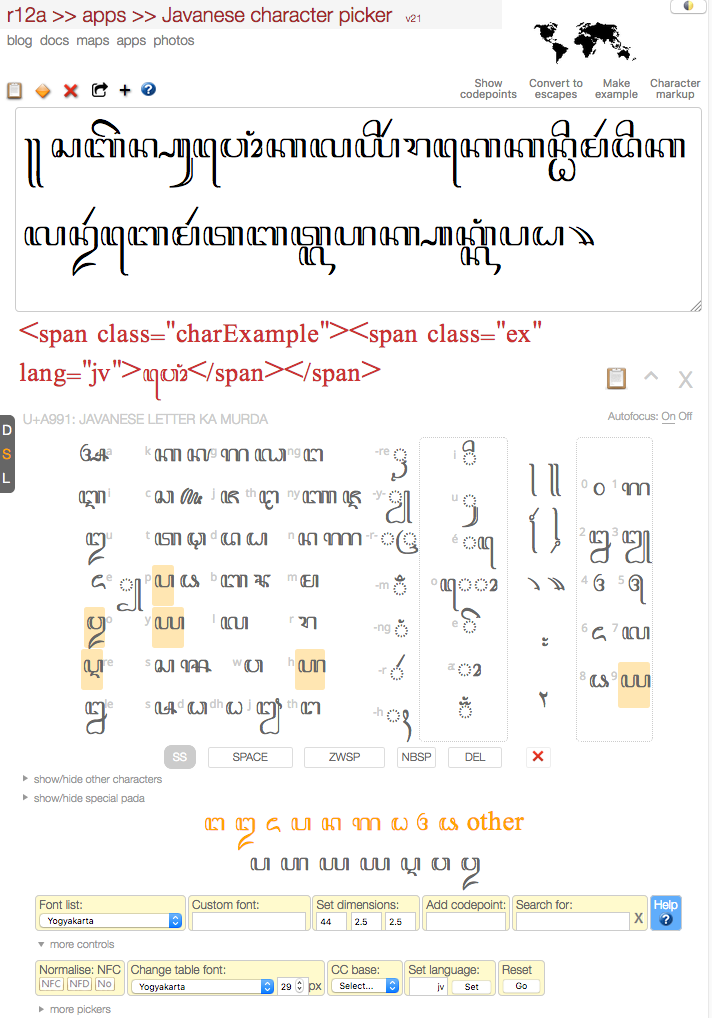
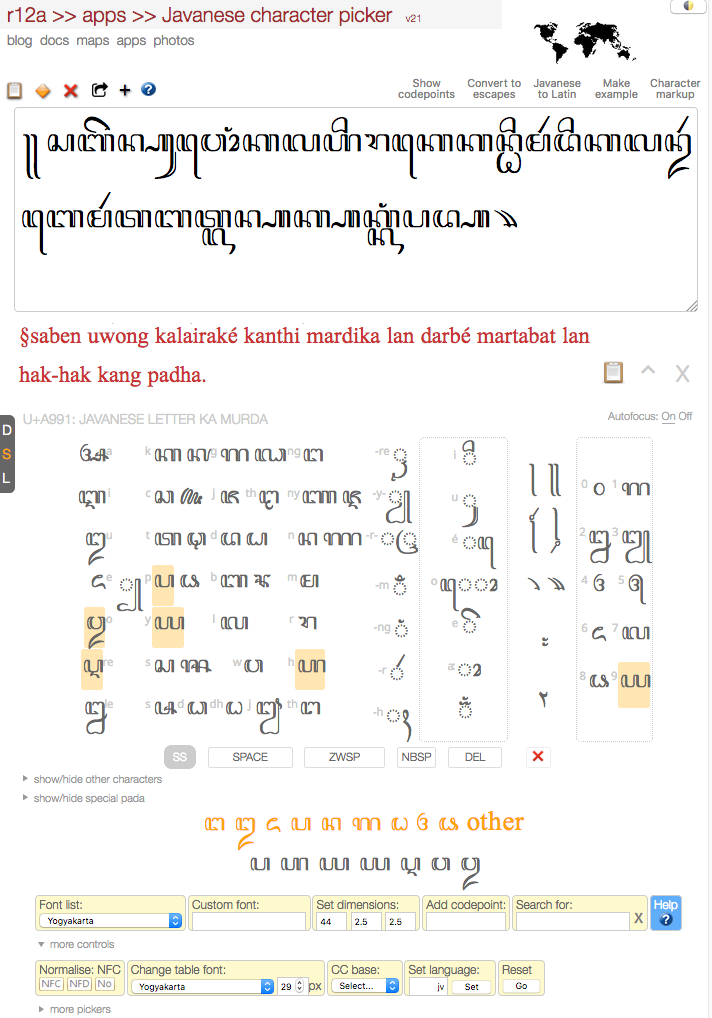
javanese help, final draft

diff --git a/javanese/help/index.html b/javanese/help/index.html
@@ -30,7 +30,7 @@
   </div>
 </aside>     
 
-<p id="status">Updated  <!-- #BeginDate format:En2 -->24-Aug-2017<!-- #EndDate --> • tags <a href="http://rishida.net/blog/?tag=apps" title="Show all blog posts tagged with 'apps'">apps</a>, <a href="http://rishida.net/blog/?tag=pickers" title="Show all blog posts tagged with 'pickers'">pickers</a>, <a href="http://rishida.net/blog/?tag=javanese" title="Show all blog posts tagged with 'javanese'">javanese</a></p>
+<p id="status">Updated  <!-- #BeginDate format:En2 -->26-Aug-2017<!-- #EndDate --> • tags <a href="http://rishida.net/blog/?tag=apps" title="Show all blog posts tagged with 'apps'">apps</a>, <a href="http://rishida.net/blog/?tag=pickers" title="Show all blog posts tagged with 'pickers'">pickers</a>, <a href="http://rishida.net/blog/?tag=javanese" title="Show all blog posts tagged with 'javanese'">javanese</a></p>
 
 
 <p>This Unicode character picker allows you to produce or analyse runs of Javanese text. Character pickers are especially useful for people who don't know a script well, as characters are displayed in ways that aid identification.</p>
@@ -103,6 +103,7 @@ When working on an iPad or similar device, you should turn off<code class="kw" t
       <p><b class="leadin">Copy, select, delete, etc. (<img src="../../images/copy_etc.png" style="vertical-align:middle;" alt=""/>).</b> The icons on the left above the input box allow you (listing them from left to right) to copy the text to the clipboard, select the text,  delete it, generate a URL to share with others that will reproduce for them what you see in the text box, add some sample text to the text area, and open this help file.</p>
       <p><b class="leadin">Show codepoints.</b> Produces a list of the Unicode code points in the input box. You can usually follow a link from a code point item to more detailed information about that character.</p>
       <p><b class="leadin">Convert to escapes.</b> Opens a new window for the converter app, which shows various different ways of representing the text in the input box using escapes.</p>
+      <p><b class="leadin">Javanese to Latin.</b> Converts Javanese text in the text area into a Latin transliteration. The transliteration algorithm is unable to detect where word boundaries occur, so it omits all spaces, and you'll need to introduce them manually after the transcription is done. It is also unable to detect whether <span class="trans"><span class="trans">ha</span></span> with a vowel-sign, such as <span class="trans">a</span>, should be transcribed <span class="trans">ha</span> or <span class="trans">a</span>, and so it renders it always as <span class="trans">ha</span>. Finally, the punctuation of Javanese doesn't always map exactly to the right characters for a Latin transcription, so you may need to tweak that sometimes.</p>
     <p><b class="leadin">Make example.</b> This may be useful to speed up the creation of examples. You can create an example with four parts, delimited by /, in the following order: [1] Javanese text, [2] transliteration, [3] IPA transcription, [4] meaning. You don't need to add all four elements, but if you want to skip one in the middle of the sequence, use nothing between the slashes.</p>
        <p>For example, the following:</p>
       <p><span lang="jv">ꦥꦼꦠꦼꦁ</span>/peteng//dark</p>
@@ -170,7 +171,7 @@ When working on an iPad or similar device, you should turn off<code class="kw" t
 </section>
 </section>
 
-<div class="smallprint">Latest commit <a href="https://github.com/r12a/pickers/commits/gh-pages/javanese/help"><!-- #BeginDate format:En2 -->24-Aug-2017<!-- #EndDate --></a>. 
+<div class="smallprint">Latest commit <a href="https://github.com/r12a/pickers/commits/gh-pages/javanese/help"><!-- #BeginDate format:En2 -->26-Aug-2017<!-- #EndDate --></a>. 
 Make a <a href="https://github.com/r12a/pickers/issues/new?title=[javanese%20help]%20%20ADD%20TITLE%20HERE">comment</a>.
 Licence <a rel="license" href="http://creativecommons.org/licenses/by/4.0/">CC-By</a> © <a href="mailto:r12a@w3.org">r12a</a>.</div>
 </body>
